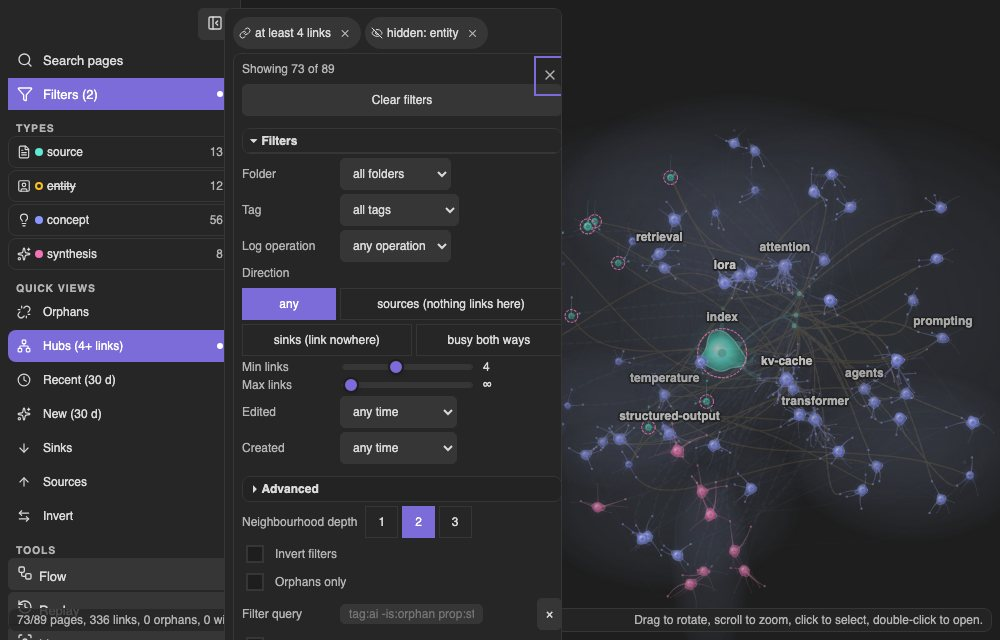
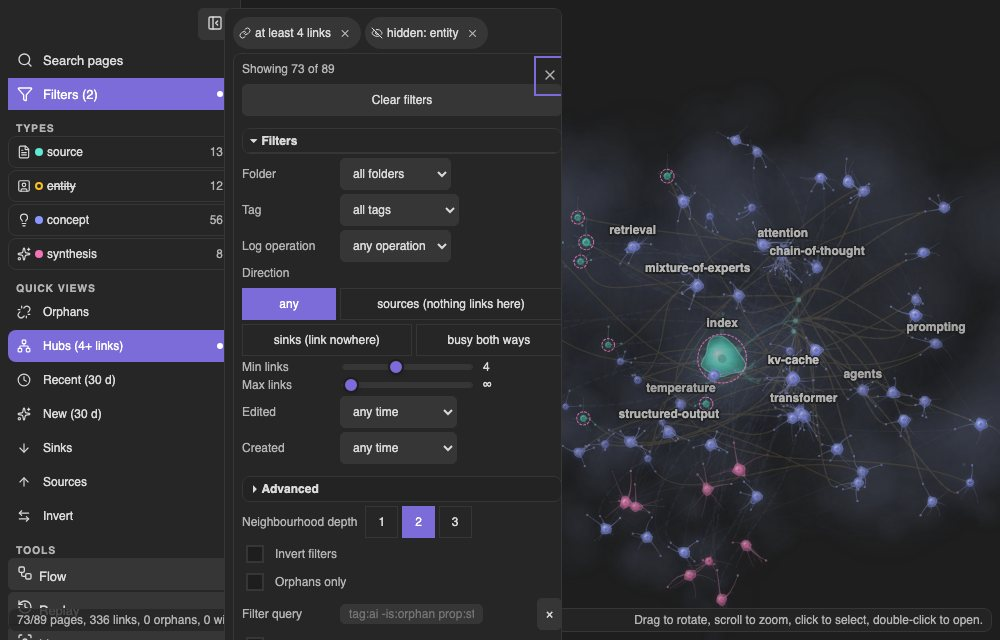
feat: realistic brain clouds, 3D swarms of soft puffs (0.13.0) (#18)
Claude-Session: https://claude.ai/code/session_01AK5uJut3kdmNhCoDa5wPPg

diff --git a/src/engine.ts b/src/engine.ts
@@ -6,6 +6,7 @@ import { bfsLevels, hopMs } from "./wave";
 import { Net, cascade, conduction, hebb, myelinOf, strengthBand, synapsesOf, Spike } from "./synapse";
 import { assignLobes, countBefore, creationOrder, findRoute, spreadFrom } from "./route";
 import { LOBES, LOBE_SUM, simStep as stepPhysics } from "./physics";
+import { brainPuffs, type Puff } from "./cloud";
 import { hashStr, makeDrift, rng } from "./rand";
 import { settleAlpha } from "./layout";
 import { assignPorts as assignPortsPure, axonShape, AxonShape, edgeBendInto, edgeCurve, freeDirection, growDendrites, phiOf } from "./ports";
@@ -230,11 +231,11 @@ function makeGhost(rgb: string): HTMLCanvasElement {
 	const c = createEl("canvas");
 	c.width = c.height = S;
 	const g = c.getContext("2d") as CanvasRenderingContext2D;
-	const gr = g.createRadialGradient(S / 2, S / 2, S * 0.12, S / 2, S / 2, S / 2);
-	// Same cloud as before, only easier to see: a brighter core and a slower fade, still dissolving at the edge.
-	gr.addColorStop(0, "rgba(" + rgb + ",0.34)");
-	gr.addColorStop(0.55, "rgba(" + rgb + ",0.24)");
-	gr.addColorStop(0.85, "rgba(" + rgb + ",0.1)");
+	const gr = g.createRadialGradient(S / 2, S / 2, 0, S / 2, S / 2, S / 2);
+	// One soft puff: the cloud is many of these overlapping, so each one is faint and dissolves smoothly at its edge.
+	gr.addColorStop(0, "rgba(" + rgb + ",0.2)");
+	gr.addColorStop(0.5, "rgba(" + rgb + ",0.12)");
+	gr.addColorStop(0.8, "rgba(" + rgb + ",0.04)");
 	gr.addColorStop(1, "rgba(" + rgb + ",0)");
 	g.fillStyle = gr;
 	g.fillRect(0, 0, S, S);
@@ -326,12 +327,17 @@ export class BrainEngine {
 	private mutedRGB: Partial<Record<PageType, string>> = {}; // the type colour pulled toward grey: for links, branches and spikes, which must not out-shine the cells
 	private pal = COLORS.dark;
 	private ghost: HTMLCanvasElement | null = null;
+	private cloudCv: HTMLCanvasElement | null = null;
+	private cloudCtx: CanvasRenderingContext2D | null = null;
+	private puffs: Puff[] = brainPuffs(LOBES, 34);
+	private puffsLow: Puff[] = brainPuffs(LOBES, 16, 0x5eed + 1);
 	private edgeRGB = "139,151,255";
 	private labelColor = "#e8eaf0";
 	private bgColor = "#0d1017";
 	private edgeFog: string[] = []; // the link colour mixed toward the background, by depth band
 	private warnColor = "#f59e0b";
 	private ghostAlpha = 0.55;
+	private cloudFog = 0.45; // how much far puffs fade (0 none, 1 vanish)
 	private camCy = 1;
 	private camSy = 0;
 	private camCp = 1;
@@ -1289,7 +1295,7 @@ export class BrainEngine {
 		this.labelColor = cs.getPropertyValue("--text-normal").trim() || (light ? "#222" : "#e8eaf0");
 		this.bgColor = cs.getPropertyValue("--background-primary").trim() || (light ? "#fff" : "#0d1017");
 		this.warnColor = light ? "#b45309" : "#f59e0b";
-		this.ghostAlpha = light ? 0.7 : 0.55;
+		this.ghostAlpha = light ? 0.42 : 0.62;
 		this.light = light;
 		this.boutonColor = light ? "rgb(50,62,86)" : "rgb(176,226,218)";
 		const px = createEl("canvas");
@@ -2005,13 +2011,34 @@ export class BrainEngine {
 
 		if (!this.simpleEdges) this.computeAnchors();
 		if (this.ghost) {
-			ctx.globalAlpha = this.ghostAlpha;
-			for (const L of LOBES) {
-				const x = L.c[0] * this.camCy + L.c[2] * this.camSy, z1 = -L.c[0] * this.camSy + L.c[2] * this.camCy;
-				const y = L.c[1] * this.camCp - z1 * this.camSp, z2 = L.c[1] * this.camSp + z1 * this.camCp, p = DIST / (DIST + z2);
-				const rx = Math.max(L.r[0], L.r[2]) * 1.08 * p * this.S0, ry = L.r[1] * 1.12 * p * this.S0;
-				ctx.drawImage(this.ghost, this.W / 2 + this.panX + x * p * this.S0 - rx, this.H / 2 + this.panY + y * p * this.S0 - ry, rx * 2, ry * 2);
+			// The cloud is soft, so it is drawn at a quarter of the resolution and scaled up: hundreds of big faint puffs at full size cost far more fill than they are worth.
+			const K = 0.25, cw = Math.max(1, Math.ceil(this.W * K)), ch = Math.max(1, Math.ceil(this.H * K));
+			if (!this.cloudCv) {
+				this.cloudCv = createEl("canvas");
+				this.cloudCtx = this.cloudCv.getContext("2d") as CanvasRenderingContext2D;
 			}
+			if (this.cloudCv.width !== cw || this.cloudCv.height !== ch) {
+				this.cloudCv.width = cw;
+				this.cloudCv.height = ch;
+			} else this.cloudCtx!.clearRect(0, 0, cw, ch);
+			const cc = this.cloudCtx!, fog = this.cloudFog, sc = this.S0 * K, ox = (this.W / 2 + this.panX) * K, oy = (this.H / 2 + this.panY) * K;
+			const puff = (wx: number, wy: number, wz: number, wr: number, a: number) => {
+				const x = wx * this.camCy + wz * this.camSy, z1 = -wx * this.camSy + wz * this.camCy;
+				const y = wy * this.camCp - z1 * this.camSp, z2 = wy * this.camSp + z1 * this.camCp, p = DIST / (DIST + z2);
+				if (p <= 0) return;
+				const r = wr * p * sc, depth = clamp((z2 + 260) / 520, 0, 1);
+				cc.globalAlpha = a * (1 - depth * fog);
+				cc.drawImage(this.ghost as HTMLCanvasElement, ox + x * p * sc - r, oy + y * p * sc - r, r * 2, r * 2);
+			};
+			for (const q of this.quality > 0 ? this.puffs : this.puffsLow) puff(q.x, q.y, q.z, q.r, q.a);
+			const step = Math.max(1, Math.ceil(nodes.length / 220)); // at most ~220 of them, so a big vault costs no more than a small one
+			for (let i = 0; i < nodes.length; i += step) {
+				const n = nodes[i];
+				if (!n.off) puff(n.x, n.y, n.z, (26 + Math.sqrt(n.deg) * 3) * Math.sqrt(step), 0.3); // the cloud also gathers where the visible pages are
+			}
+			cc.globalAlpha = 1;
+			ctx.globalAlpha = this.ghostAlpha;
+			ctx.drawImage(this.cloudCv, 0, 0, cw, ch, 0, 0, cw / K, ch / K);
 			ctx.globalAlpha = 1;
 		}
 		const f = this.hovered !== -1 ? this.hovered : this.selected, fn = f >= 0 ? nodes[f] : null;

diff --git a/src/cloud.ts b/src/cloud.ts
@@ -1,0 +1,38 @@
+/* The brain's cloud: each lobe is a swarm of soft puffs in 3D instead of one flat ellipse. Pure: no DOM, testable in Node. */
+import { rng } from "./rand";
+import type { Lobe } from "./physics";
+
+/** One puff: world position, radius in world units, and its own opacity (1 = the strongest). */
+export interface Puff {
+	x: number;
+	y: number;
+	z: number;
+	r: number;
+	a: number;
+}
+
+/**
+ * Puffs scattered through a lobe's ellipsoid, more of them near the surface than in the middle (the cortex is thicker than the
+ * core), with uneven sizes so the outline is lumpy like folded cortex. Seeded: the same lobe always gives the same cloud.
+ */
+export function lobePuffs(L: Lobe, count: number, seed: number): Puff[] {
+	const r = rng(seed), out: Puff[] = [];
+	for (let i = 0; i < count; i++) {
+		const u = r() * 6.2832, v = r() * 2 - 1, s = Math.sqrt(1 - v * v);
+		const shell = r() < 0.7;
+		const k = shell ? 0.78 + r() * 0.22 : Math.cbrt(r()) * 0.75; // fraction of the way out to the surface
+		const size = Math.min(L.r[0], L.r[1], L.r[2]) * (0.24 + r() * 0.24) * (shell ? 1 : 1.3); // inner puffs are bigger and fainter
+		out.push({ x: L.c[0] + L.r[0] * s * Math.cos(u) * k, y: L.c[1] + L.r[1] * s * Math.sin(u) * k, z: L.c[2] + L.r[2] * v * k, r: size, a: shell ? 0.8 + r() * 0.2 : 0.4 + r() * 0.3 });
+	}
+	return out;
+}
+
+/** Puffs for every lobe; a lobe's share follows its size so the density looks even from one lobe to the next. */
+export function brainPuffs(lobes: Lobe[], perUnit: number, seed = 0x5eed): Puff[] {
+	const out: Puff[] = [];
+	lobes.forEach((L, i) => {
+		const vol = (L.r[0] * L.r[1] * L.r[2]) / (150 * 120 * 130); // 1 for the biggest lobe
+		out.push(...lobePuffs(L, Math.max(8, Math.round(perUnit * Math.cbrt(vol) * 1.5)), seed + i * 977));
+	});
+	return out;
+}

diff --git a/docs/benchmark.md b/docs/benchmark.md
@@ -59,4 +59,5 @@ What changed, in the order it mattered:
 
 Pure modules (`buildVaultGraph`, search, filters, routes, communities, the neuron net) are linear: at 10,000 notes the slowest, building the graph, takes about 140 ms on a fake vault, and a search keystroke about 13 ms.
 Note (0.11.0): the table above predates 0.11.0. Since then the biggest cells get full neurons at any vault size, and in a software-rendered headless browser a 10,000-node draw went from about 310-375 ms (0.10.0) to about 450 ms, a 30-45% relative cost. Those absolute numbers are not comparable to the table (different machine, no GPU); the GPU figures were not re-measured.
+Note (0.13.0): the cloud became many soft puffs drawn at a quarter of the resolution. Same software-rendered headless browser, 10,000 nodes: about 414 ms a draw against 396 ms before (+4.5%); at 350 nodes the difference is inside the noise. Not measured on a GPU.
 Open: a draw of 25-33 ms at 10,000 notes is about 35 fps; the next step would be one batched sprite pass per type, or WebGL (see TODOS.md).

diff --git a/DESIGN.md b/DESIGN.md
@@ -30,6 +30,7 @@ Type colours (also the legend):
 - Link opacity by depth band: 0.14, 0.10, 0.06 (near to far), times 0.75 / 1 / 1.3 for weak / normal / strong links. Width: 0.9 px at 1x, times 0.85 / 1 / 1.45 by strength, thinner with depth.
 - Glow behind a soma 0.12 dark, 0.08 light; bouton halo 0.06. The soma rim is 0.4.
 - Depth fog: far cells and links melt toward the theme background, up to 0.3.
+- Cloud: each lobe is a swarm of soft puffs in 3D (about 34 per unit of lobe size, 65 to 70% near the surface, seeded), plus one puff per visible page (at most ~220). They are drawn at a quarter of the resolution and scaled up, with far puffs fading by 0.45. Overall opacity 0.62 dark, 0.42 light.
 - Warning and failure use `--text-warning`; inhibition is a cold dashed ring `rgb(140,175,255)`.
 
 ## Neuron
